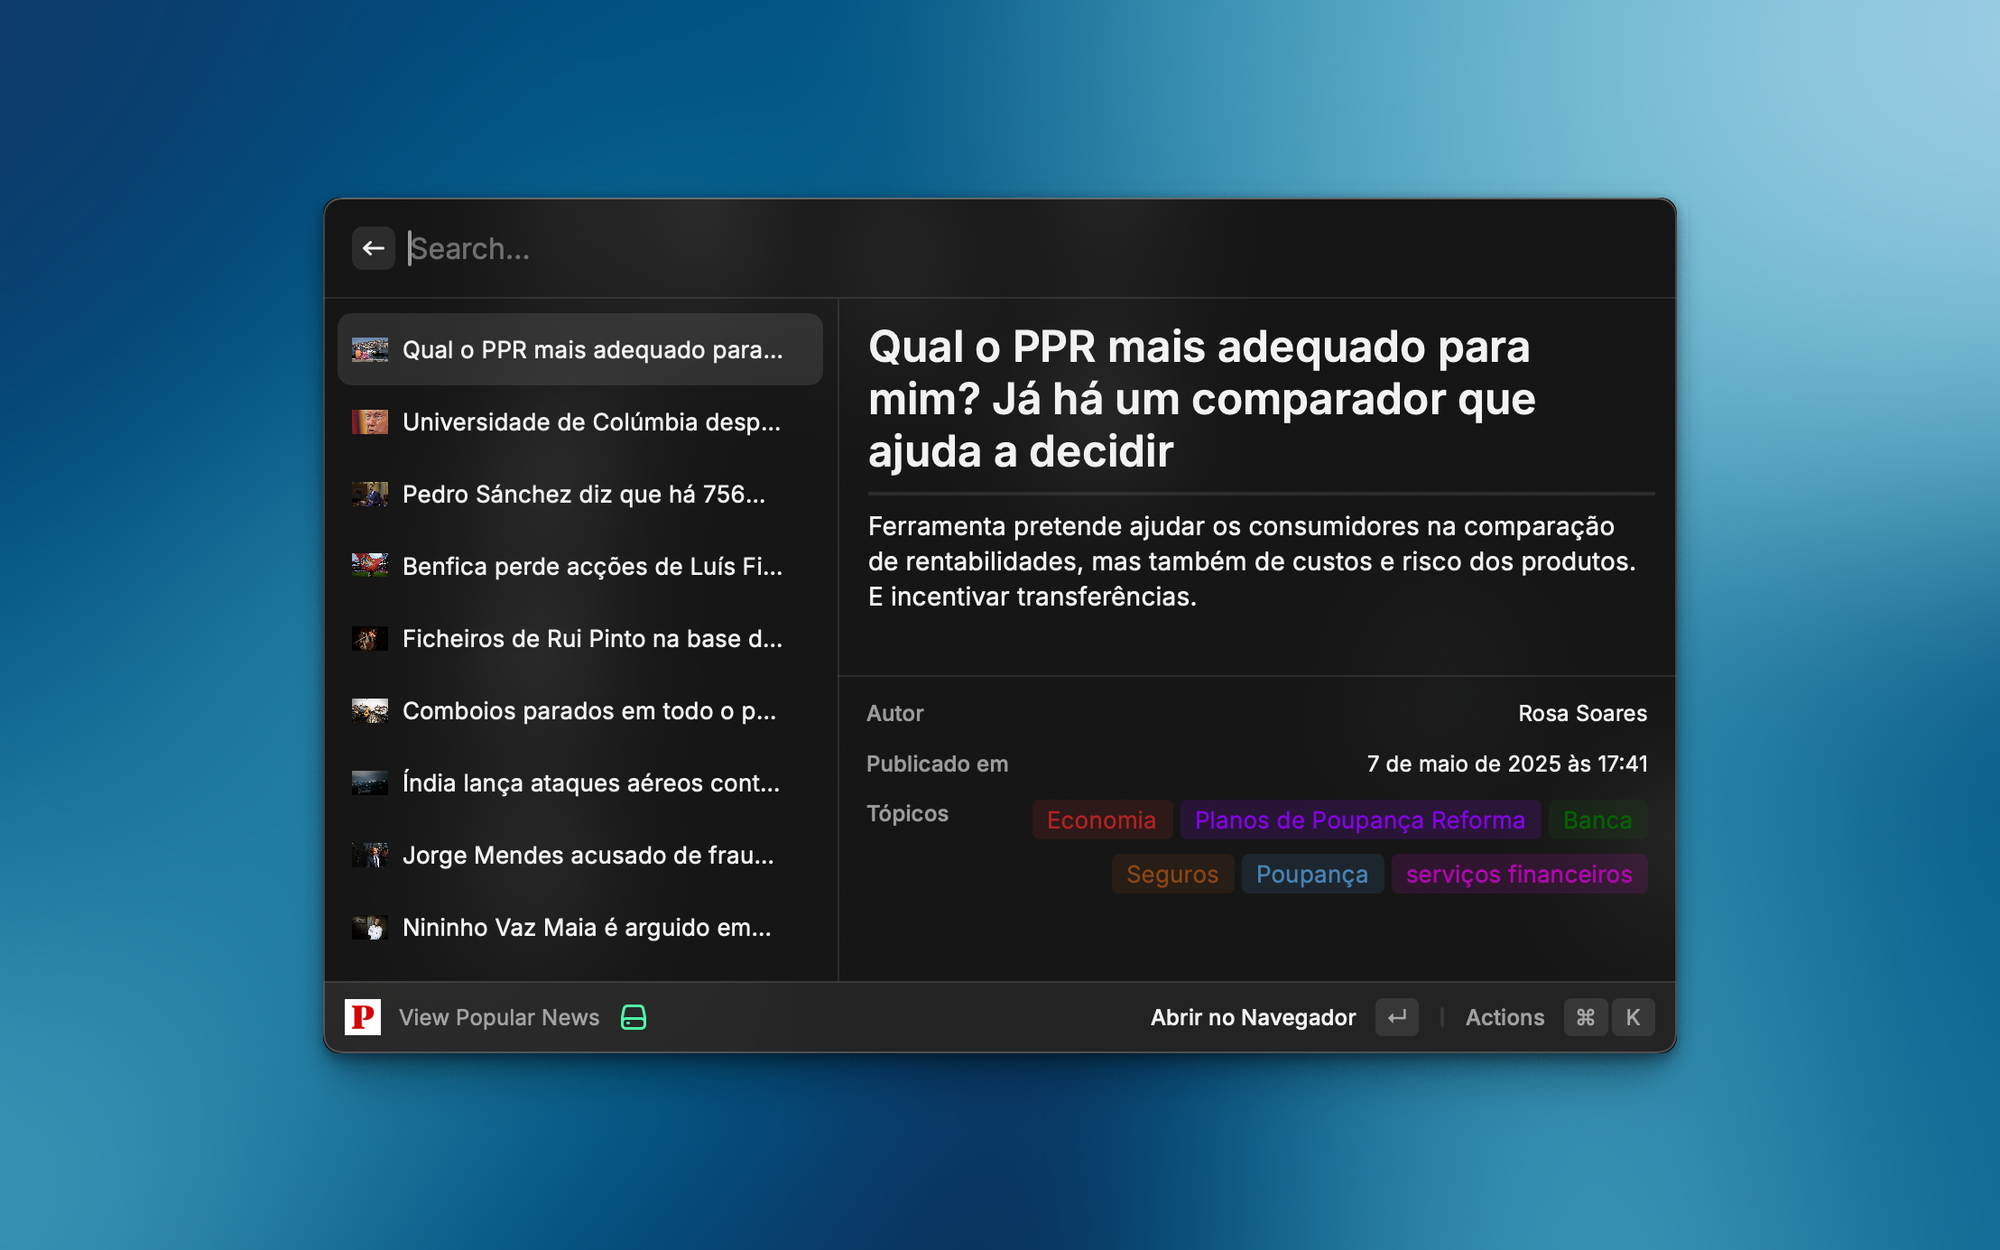
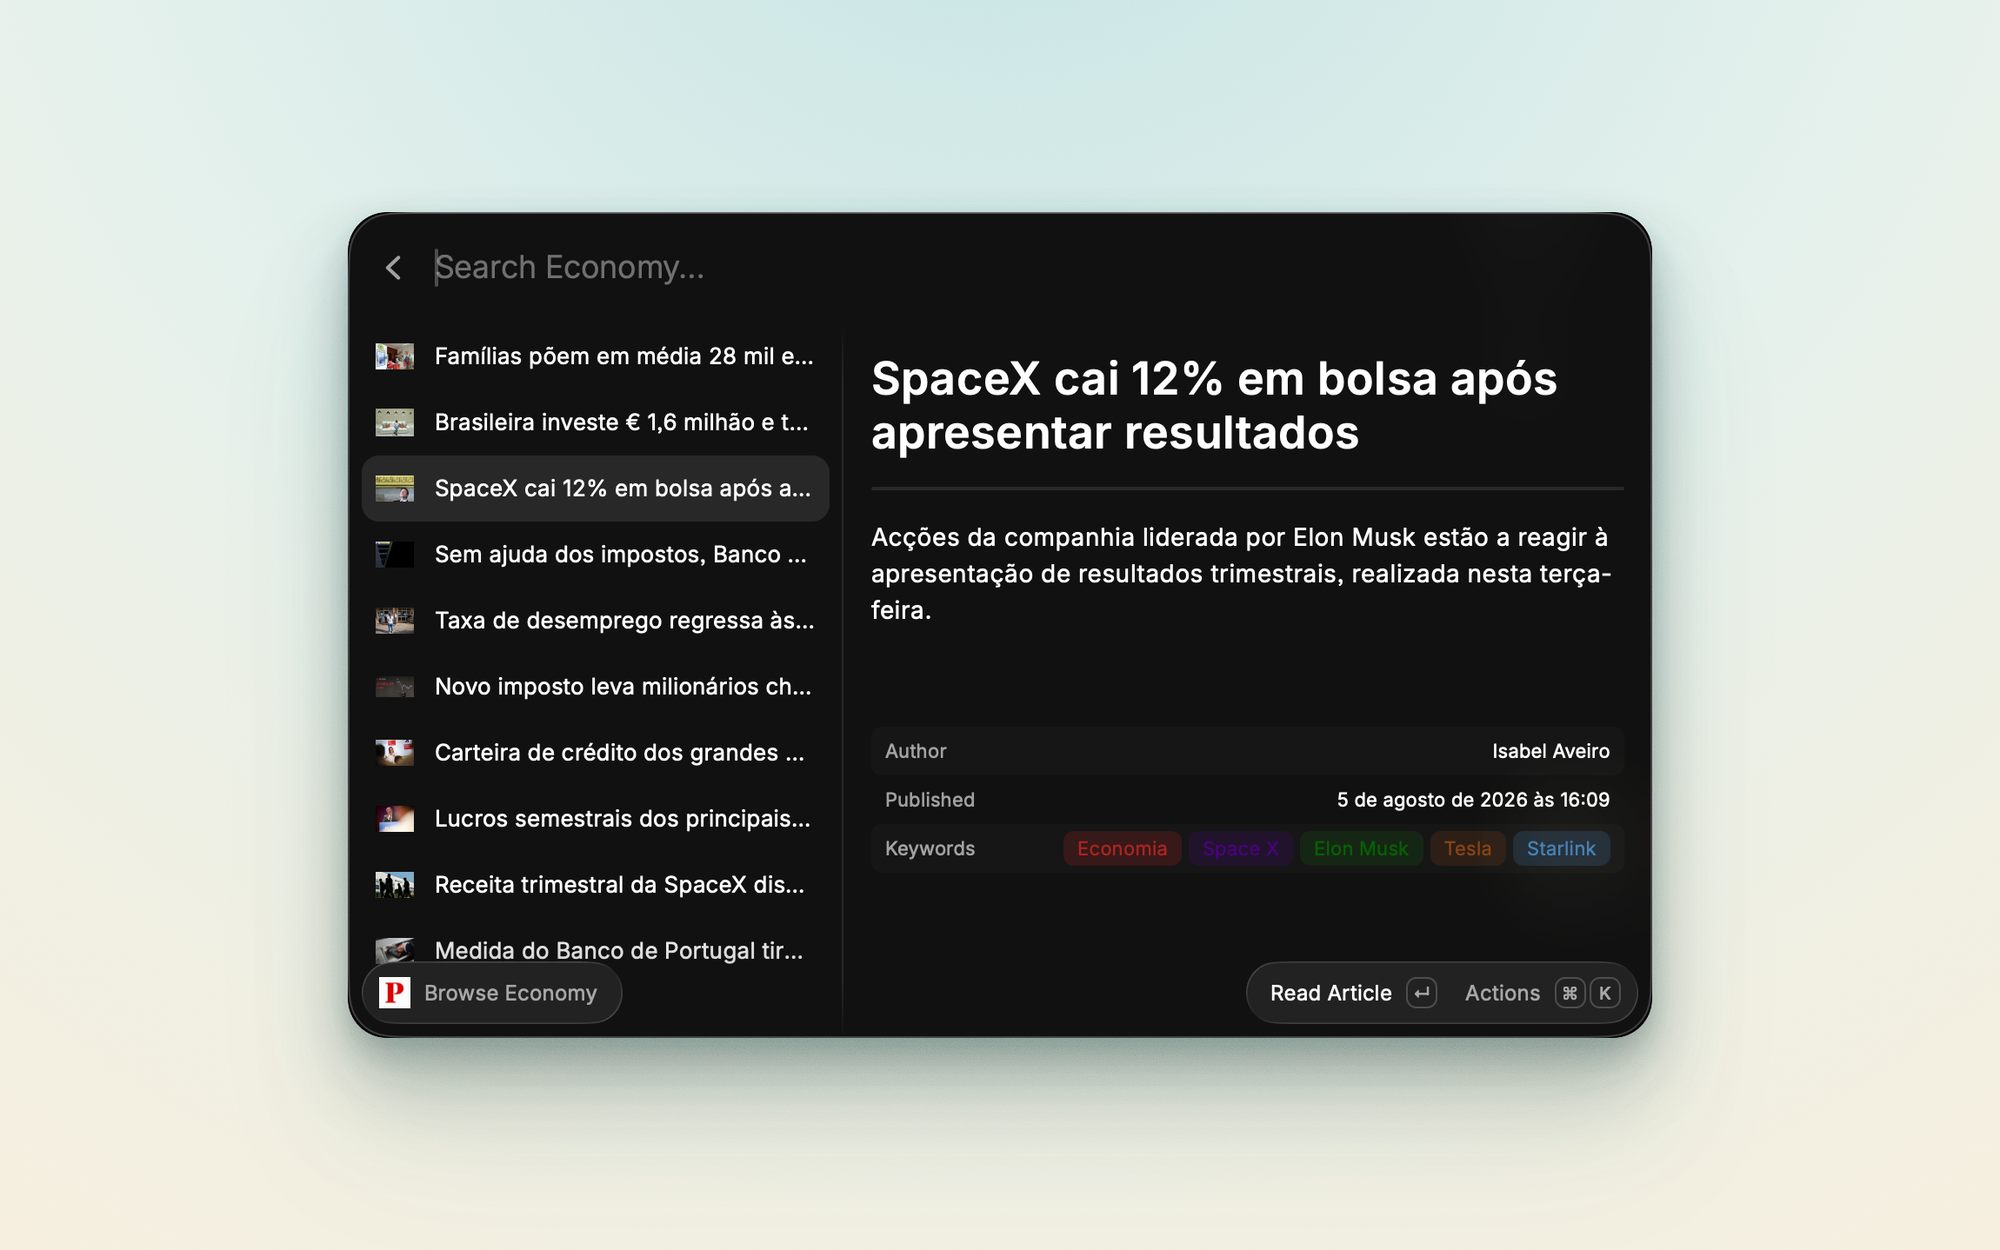
Replace the store screenshots with three current captures
The old screenshot was stale twice over: it showed the Portuguese detail
labels (Autor, Publicado em, Topicos) that are now English, and a footer
reading "View Popular News" before the verb-led rename.

Three replacements at the required 2000x1250, cropped to 16:10 from the
originals, sharing one background as Raycast requires. Ordered so the
cleanest is first: the Economy capture is the only one whose summary is
not clipped by the detail pane overflow fade.

None has the action panel open, so the non-functional Summarize stub is
not on display.

diff --git a/README.md b/README.md
@@ -6,7 +6,7 @@
 
 Browse the latest articles, jump straight into a section, search by topic, and read them from [Público](https://www.publico.pt/) directly from your command bar.
 
-![Browse Popular News: the article list on the left, the selected article's summary, author, date, and topics on the right](./metadata/publico-1.png)
+![Browse Economy: the article list on the left, the selected article's summary, author, date, and topics on the right](./metadata/publico-1.png)
 
 Público is a Portuguese daily newspaper. This extension talks to Público's public JSON API (`https://www.publico.pt/api`) and needs no account, key, or binary installed: the two feed commands, the 34 section commands, and search all read the same set of open list endpoints. Reading an article renders whatever the API returns for it inside Raycast, and Open in Browser is always one keystroke away for the rest.
 
